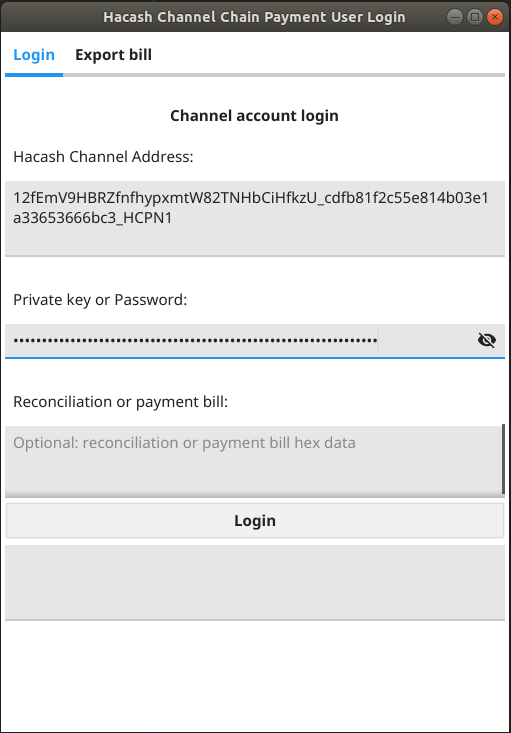
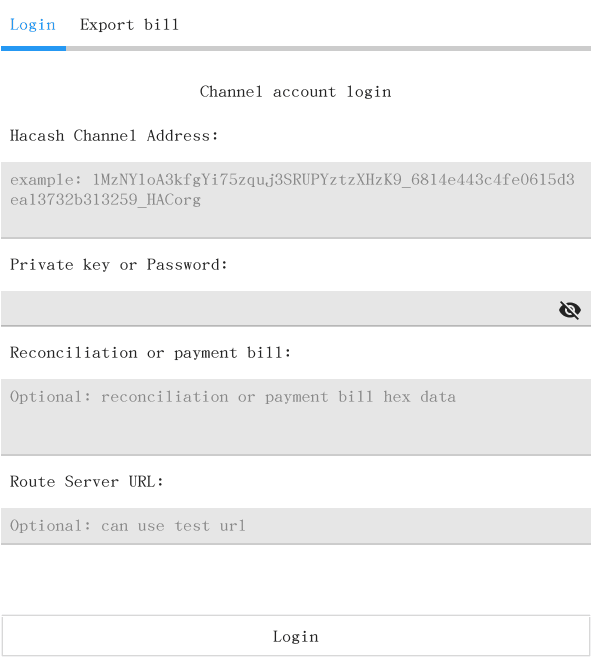
up

Changed region(s): [[0.0, 0.0, 1.0, 1.0], [0.0, 0.9105, 0.0294, 0.9408]]

diff --git a/v2.0/doc/zh/layer-2-wallet.md b/v2.0/doc/zh/layer-2-wallet.md
@@ -37,6 +37,8 @@ Hacash 通道链二层钱包用户使用手册
 
 <p class="note">注意，此私钥不要泄露给包括您的支付服务商之内的任何人<p>
 
+注意：`Payment bill` 项是需要导入的通道对账票据, `Route Server URL` 项是要使用的路由服务器URL。这两项正常情况下不用填写，只需要在导入票据或者用作测试路由时需要自定义填写。
+
 当在新的设备上登录通道钱包时，新设备本地并没有储存您的最新对账票据。如果您已经有过支付或收款行为，则需要在登录时提供最新的“对账或支付票据”。如果是首次登录或者未有过支付或收款行为，则不需要提供。
 
 当您使用新的设备时，可以点击登录界面的 `Export bill` 选项卡，输入您的通道ID，导出旧的票据在新的设备上使用。如下所示：
@@ -47,13 +49,17 @@ Hacash 通道链二层钱包用户使用手册
 
 <img class="ctw lazy" data-src="/image/channelpay/wallet.png" />
 
-钱包显示项中，`Channel Balance` 是您的可用余额；`Collection Capacity` 是收款容量，表示本通道您最多能收取的资金上限；`[Reconciliation meta info]` 则为您的实时对账票据信息，请务必及时备份。如果丢失对账票据，则通道对方将有可能选择对自己有利的对账单据窃取您的资金。
+钱包显示项中，`Channel Balance` 是您的可用余额，`5:248` 表示余额有 5 枚 HAC，`50000 sats` 表示有 5 万个比特币聪，可以按需使用 HAC 或者 BTC 支付；`Collection Capacity` 是收款容量，表示本通道您最多能收取的资金上限；`[Reconciliation meta info]` 则为您的实时对账票据信息，请务必及时备份。如果丢失对账票据，则通道对方将有可能选择对自己有利的对账单据窃取您的资金。
 
 启用 `Collection`  按钮则可以自动收款，关闭时将会直接拒接任何收款。只要登录并保持连接即可自动收款，不需要任何操作。
 
 ## 发起支付
 
-在 `Payment` 项下的两个输入框中分别填写收款方的通道钱包地址，和支付金额，即可发起转账。填写转账信息并检查确认无误后，点击 `Start Transfer` 按钮，客户端将请求服务商查询路由并发起支付，如果没有路由解析错误，或者不存在的服务商标识符等错误，则会看到如下路由路径选择、交易费用检查等支付确认对话框：
+在 `Payment` 项下的两个输入框中分别填写收款方的通道钱包地址，和支付金额，即可发起转账。
+
+请注意，通道链钱包可支持 HAC 或者 BTC 支付。如果 Payment 输入框填写 `500SAT`、`500 sat` 或 `500sats` 等带有比特币的单位 SAT (聪) 标记的数额，表示支付的是比特币，否则支付的是 HAC 。
+
+填写转账信息并检查确认无误后，点击 `Start Transfer` 按钮，客户端将请求服务商查询路由并发起支付，如果没有路由解析错误，或者不存在的服务商标识符等错误，则会看到如下路由路径选择、交易费用检查等支付确认对话框：
 
 <img class="ctw lazy" data-src="/image/channelpay/dopay.png" />
 
